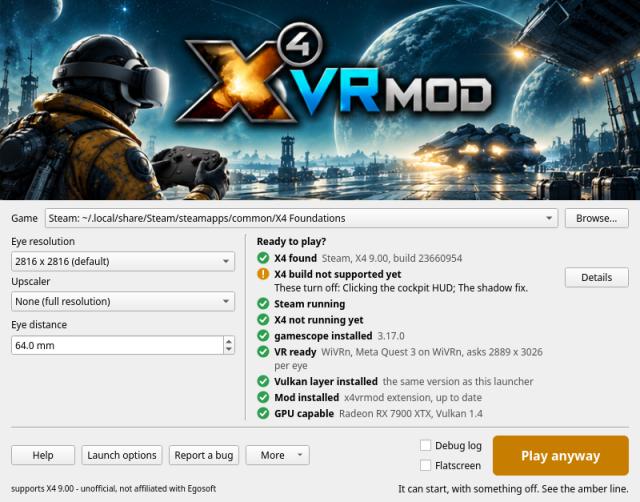
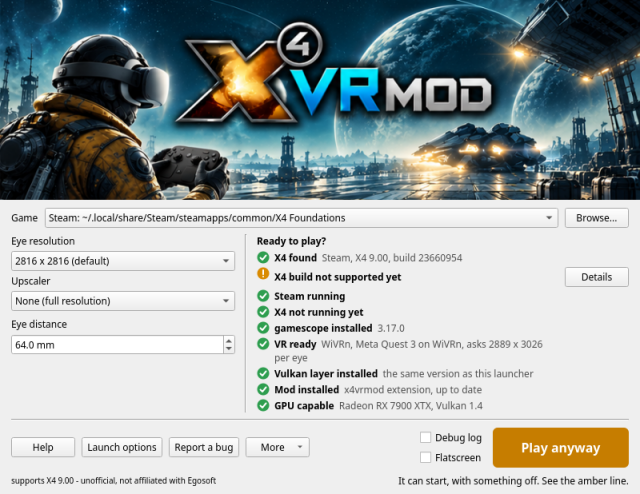
The amber row is only its title: its Details button already says what turns off, so the long list under it said everything twice (Patola). Tests for that, and for amber with red together: greyed and naming what to fix, and Play anyway once VR is up

diff --git a/tests/launcher_gui.cpp b/tests/launcher_gui.cpp
@@ -118,6 +118,12 @@ static void test_play(Window &w, const QString &shots) {
     check(play->styleSheet().contains("#c67d00"), "...and amber");
     auto *fix = w.findChild<QPushButton *>("fix-patches");
     check(fix && fix->isVisibleTo(&w) && fix->text() == "Details", "the amber row offers Details");
+    auto *amber = w.findChild<QLabel *>("row-patches");
+    check(amber && amber->text().contains("not supported") && !amber->text().contains("turn off"),
+          "...so the row itself is only its title");
+    fix->click();
+    check(w.lastMessage().contains("Clicking the cockpit HUD") && w.lastMessage().contains("still runs"),
+          "...and Details says what turns off");
     if (!shots.isEmpty())
         shot(w, shots + "/window-amber.png");
 
@@ -174,6 +180,17 @@ static void test_play(Window &w, const QString &shots) {
     check(version && version->text().contains("unofficial"), "the window says it's unofficial");
 
     // Flatscreen only needs a copy of X4 that can start, whatever VR and the mod are doing.
+    // Red beats amber: features off can still start, with no VR runtime nothing can.
+    auto both = good_rows();
+    replace(both, row("patches", Status::Warn, "X4 build not supported yet", "These turn off: X.", "details"));
+    replace(both, row("vr", Status::Block, "No VR runtime running", "", "start-vr"));
+    w.showChecks(both);
+    check(!play->isEnabled() && play->text() == "Play" && status->text().contains("No VR runtime running"),
+          "amber and red together: greyed, naming what to fix");
+    replace(both, good_rows()[5]);
+    w.showChecks(both);
+    check(play->isEnabled() && play->text() == "Play anyway", "...and once VR is up, Play anyway");
+
     auto modless = good_rows();
     replace(modless, row("vr", Status::Block, "No VR runtime running", "", "start-vr"));
     replace(modless, row("mod", Status::Block, "Mod not installed", "", "install"));

diff --git a/launcher/gui/window.cpp b/launcher/gui/window.cpp
@@ -697,6 +697,9 @@ void Window::updateRow(const std::string &id) {
         return;
     }
     QString detail = q(c.detail);
+    // The Details button shows this, so the row doesn't say it twice.
+    if (c.fix == "details")
+        detail.clear();
     // The Game box already shows the folder.
     if (id == "x4" && c.status == Status::Ok) {
         const int at = detail.indexOf(", /");
